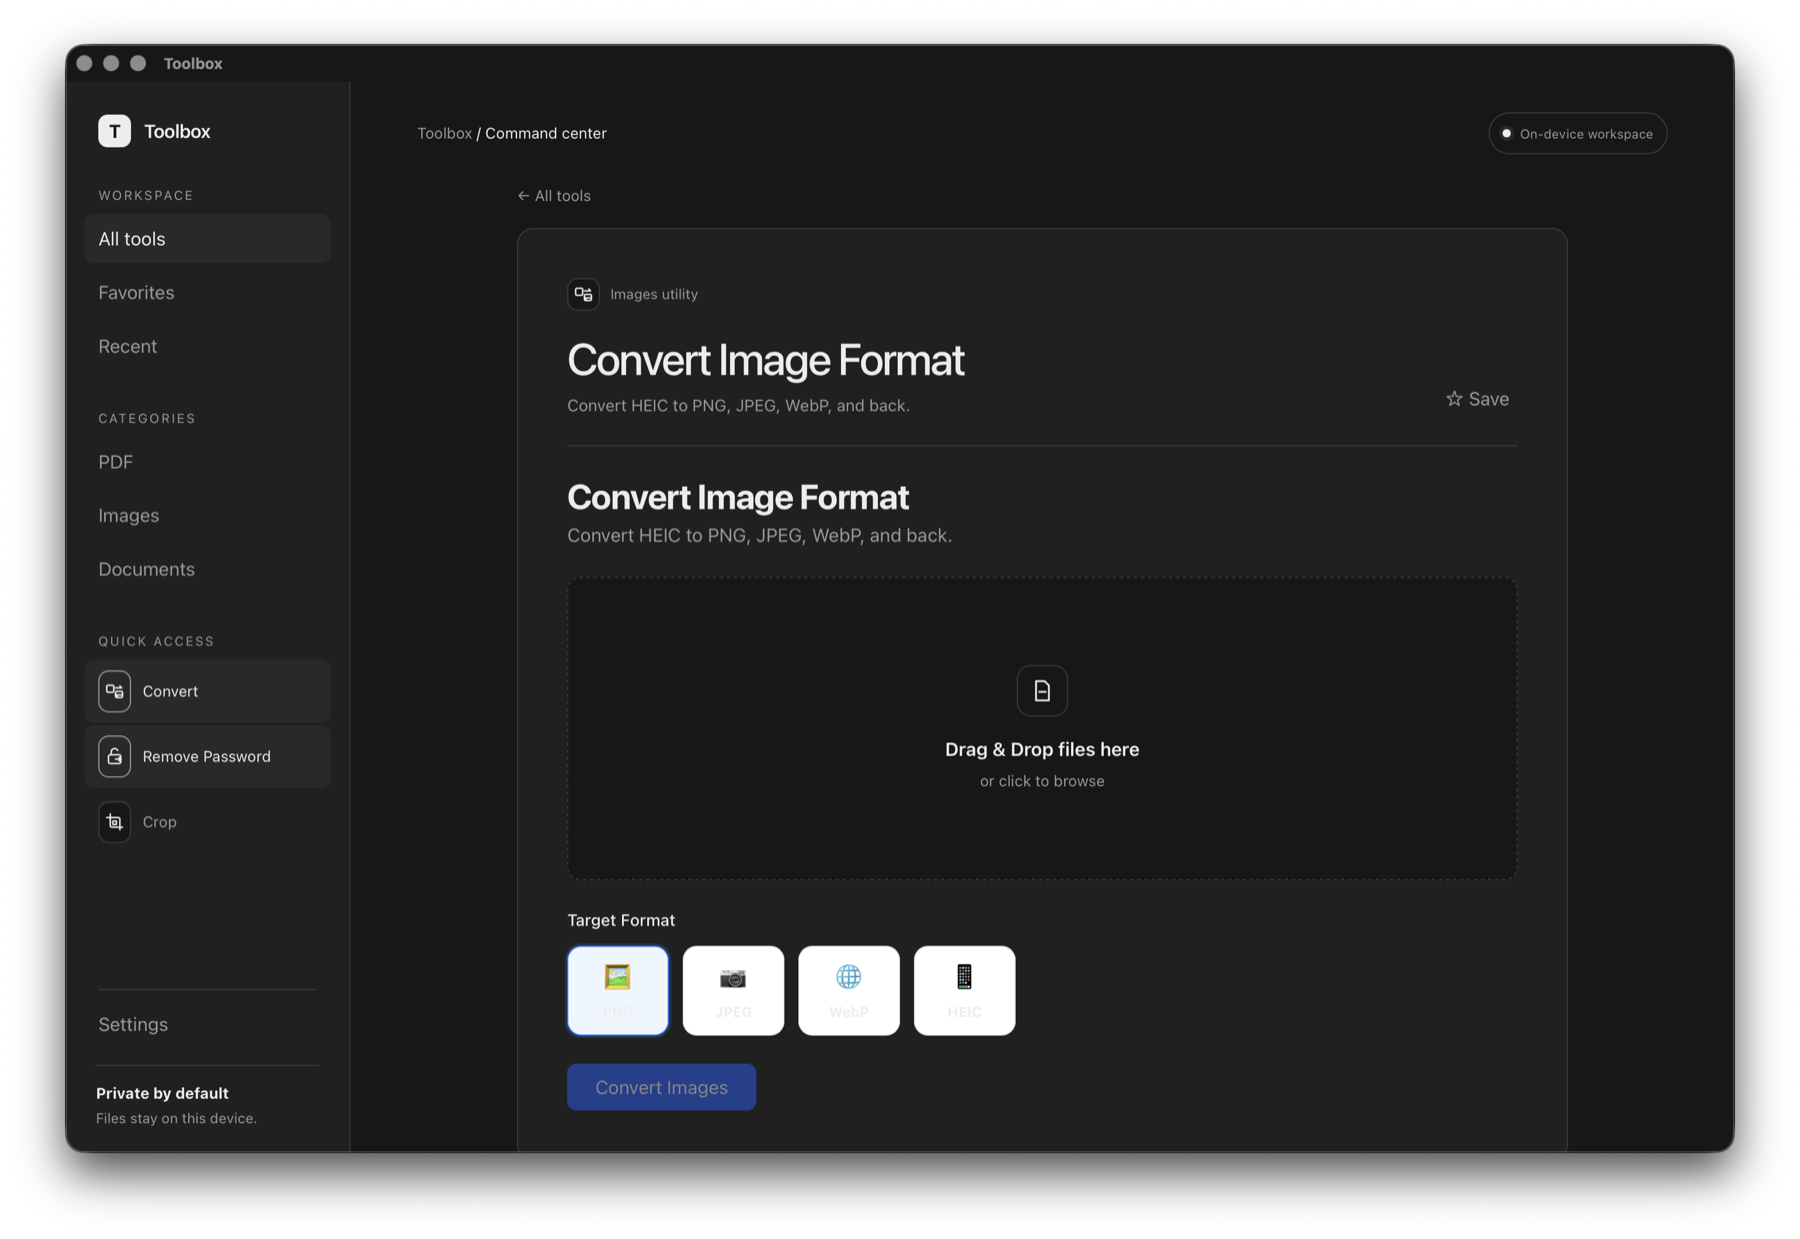
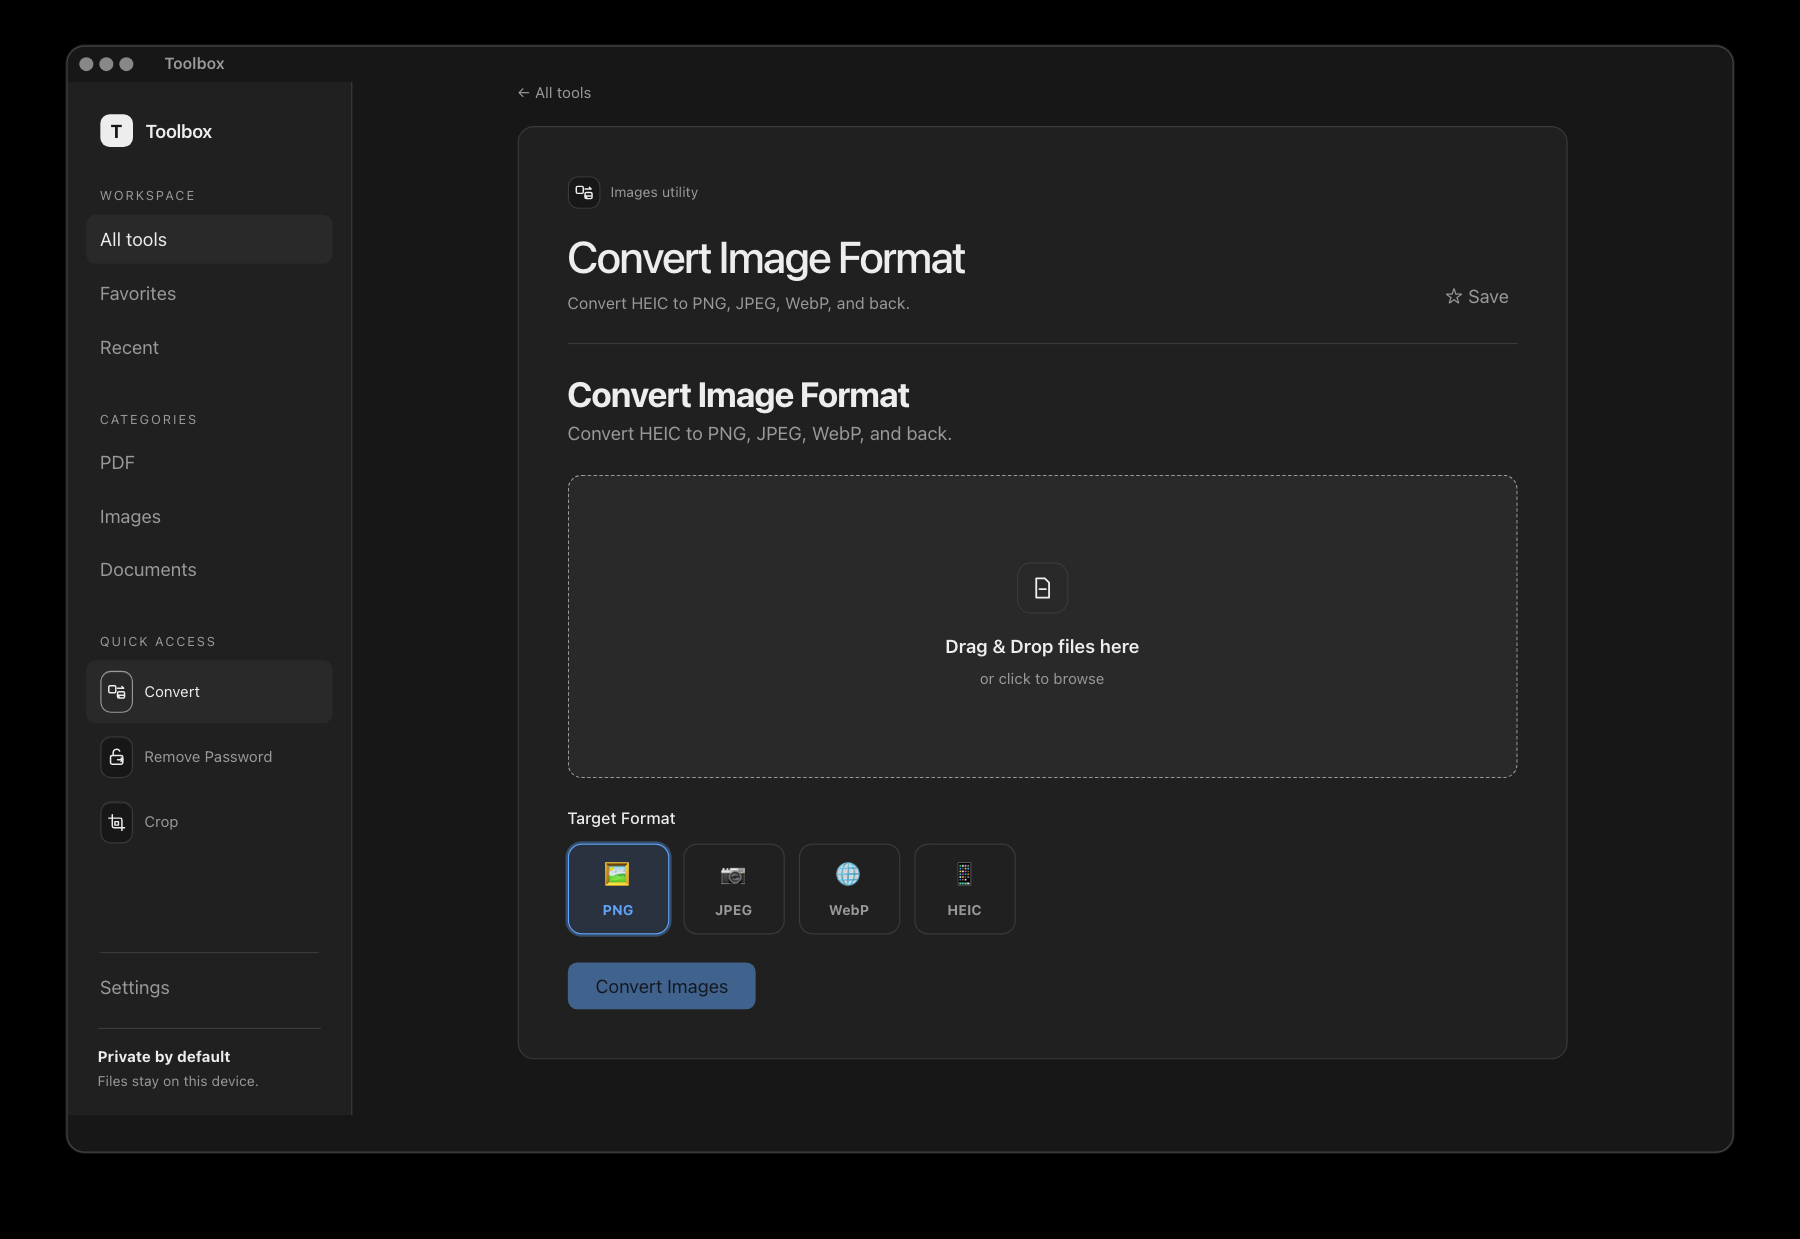
fix: sync app themes and docs screenshots

diff --git a/ToolboxTauri/src/index.css b/ToolboxTauri/src/index.css
@@ -10,8 +10,45 @@
   --accent: #ededed;
   --ink: #171717;
   --danger: #f87171;
+  --danger-ink: #1f0907;
+  --danger-bg: rgb(248 113 113 / 14%);
+  --warning: #fbbf24;
+  --warning-bg: rgb(251 191 36 / 14%);
+  --success: #4ade80;
+  --success-ink: #052e16;
+  --success-bg: rgb(34 197 94 / 14%);
+  --action: #60a5fa;
+  --action-hover: #93c5fd;
+  --action-ink: #0b1220;
+  --action-bg: rgb(96 165 250 / 14%);
+  --selection-overlay: rgb(96 165 250 / 24%);
+  --focus-ring: rgb(96 165 250 / 35%);
 }
-body[data-theme="light"] { color-scheme: light; --bg:#f7f7f5; --surface:#fff; --surface-2:#ededeb; --fg:#1d1d1b; --muted:#686865; --border:#d8d8d3; --accent:#1d1d1b; --ink:#f7f7f5; --danger:#b42318; }
+body[data-theme="light"] {
+  color-scheme: light;
+  --bg: #f7f7f5;
+  --surface: #fff;
+  --surface-2: #ededeb;
+  --fg: #1d1d1b;
+  --muted: #686865;
+  --border: #d8d8d3;
+  --accent: #1d1d1b;
+  --ink: #f7f7f5;
+  --danger: #b42318;
+  --danger-ink: #fff;
+  --danger-bg: rgb(180 35 24 / 10%);
+  --warning: #a16207;
+  --warning-bg: rgb(161 98 7 / 10%);
+  --success: #15803d;
+  --success-ink: #fff;
+  --success-bg: rgb(21 128 61 / 10%);
+  --action: #2563eb;
+  --action-hover: #1d4ed8;
+  --action-ink: #fff;
+  --action-bg: rgb(37 99 235 / 9%);
+  --selection-overlay: rgb(37 99 235 / 18%);
+  --focus-ring: rgb(37 99 235 / 24%);
+}
 * {
   box-sizing: border-box;
 }
@@ -509,10 +546,10 @@ select:focus-visible {
   padding-top: 28px;
 }
 .tool-view .text-slate-900,
-.tool-view .text-slate-700,
-.tool-view .text-slate-600 {
+.tool-view .text-slate-700 {
   color: var(--fg);
 }
+.tool-view .text-slate-600,
 .tool-view .text-slate-500,
 .tool-view .text-slate-400 {
   color: var(--muted);
@@ -680,11 +717,11 @@ select:focus-visible {
   font-weight: 600;
 }
 .result-status-success {
-  background: rgba(34, 197, 94, 0.14);
-  color: #4ade80;
+  background: var(--success-bg);
+  color: var(--success);
 }
 .result-status-failure {
-  background: rgba(248, 113, 113, 0.14);
+  background: var(--danger-bg);
   color: var(--danger);
 }
 .result-outputs {
@@ -802,6 +839,132 @@ select:focus-visible {
   overflow-y: auto;
   opacity: 0;
   pointer-events: none;
+}
+.tool-view input,
+.tool-view select,
+.tool-view textarea {
+  color-scheme: inherit;
+}
+.tool-view input:not([type="checkbox"]):not([type="range"]),
+.tool-view select,
+.tool-view textarea {
+  min-height: 36px;
+  border: 1px solid var(--border);
+  border-radius: 8px;
+  background: var(--surface);
+  color: var(--fg);
+}
+.tool-view input:not([type="checkbox"]):not([type="range"]),
+.tool-view select,
+.tool-view textarea {
+  padding: 7px 10px;
+}
+.tool-view input::placeholder,
+.tool-view textarea::placeholder {
+  color: var(--muted);
+}
+.tool-view input[type="range"] {
+  accent-color: var(--action);
+  background: var(--surface-2);
+}
+.tool-view input[type="checkbox"] {
+  accent-color: var(--action);
+}
+.tool-view option {
+  background: var(--surface);
+  color: var(--fg);
+}
+.tool-view .text-white {
+  color: var(--action-ink);
+}
+.tool-view .text-blue-600,
+.tool-view .text-blue-700 {
+  color: var(--action);
+}
+.tool-view .text-red-600,
+.tool-view .text-red-800 {
+  color: var(--danger);
+}
+.tool-view .text-amber-800 {
+  color: var(--warning);
+}
+.tool-view .bg-white {
+  background: var(--surface);
+}
+.tool-view .bg-slate-50,
+.tool-view .bg-slate-100,
+.tool-view .bg-slate-200 {
+  background: var(--surface-2);
+}
+.tool-view .bg-blue-50 {
+  background: var(--action-bg);
+}
+.tool-view .bg-blue-200\/30 {
+  background: var(--selection-overlay);
+}
+.tool-view .bg-red-50 {
+  background: var(--danger-bg);
+}
+.tool-view .bg-amber-50 {
+  background: var(--warning-bg);
+}
+.tool-view .bg-blue-600 {
+  background: var(--action);
+  color: var(--action-ink);
+  border-color: transparent;
+}
+.tool-view .bg-red-600 {
+  background: var(--danger);
+  color: var(--danger-ink);
+  border-color: transparent;
+}
+.tool-view .bg-green-600 {
+  background: var(--success);
+  color: var(--success-ink);
+  border-color: transparent;
+}
+.tool-view .bg-blue-600:hover:not(:disabled) {
+  background: var(--action-hover);
+}
+.tool-view .bg-red-600:hover:not(:disabled) {
+  background: color-mix(in srgb, var(--danger) 88%, var(--fg));
+}
+.tool-view .bg-green-600:hover:not(:disabled) {
+  background: color-mix(in srgb, var(--success) 88%, var(--fg));
+}
+.tool-view .border,
+.tool-view .border-slate-200,
+.tool-view .border-slate-300 {
+  border-color: var(--border);
+}
+.tool-view .border-blue-500,
+.tool-view .border-blue-600 {
+  border-color: var(--action);
+}
+.tool-view .border-red-600 {
+  border-color: var(--danger);
+}
+.tool-view .border-amber-200 {
+  border-color: color-mix(in srgb, var(--warning) 45%, var(--border));
+}
+.tool-view .hover\:border-slate-300:hover {
+  border-color: var(--muted);
+}
+.tool-view .ring-blue-200,
+.tool-view .ring-blue-500\/20 {
+  --tw-ring-color: var(--focus-ring);
+}
+.tool-view .accent-blue-600 {
+  accent-color: var(--action);
+}
+.tool-view pre {
+  margin: 0;
+  padding: 12px;
+  overflow: auto;
+  border: 1px solid var(--border);
+  border-radius: 8px;
+  background: var(--bg);
+  color: var(--fg);
 }
 .settings-overlay { position:fixed; inset:0; z-index:20; display:flex; align-items:flex-start; justify-content:center; padding:32px; background:rgba(0,0,0,.52); }
 .settings-dialog { width:min(520px,100%); max-height:calc(100vh - 64px); overflow:auto; padding:26px; border:1px solid var(--border); border-radius:14px; background:var(--surface); color:var(--fg); box-shadow:0 24px 80px rgba(0,0,0,.3); }

diff --git a/docs/index.html b/docs/index.html
@@ -184,19 +184,19 @@
       </div>
       <div class="screenshot-grid">
         <figure class="screenshot-card">
-          <div class="screenshot-frame"><img src="assets/screenshot-command-center.png" alt="Toolbox home workspace showing the command center and tool library" loading="lazy"></div>
+          <div class="screenshot-frame"><img src="assets/screenshot-command-center.png" data-theme-src-dark="assets/screenshot-command-center.png" data-theme-src-light="assets/screenshot-command-center-light.png" alt="Toolbox home workspace showing the command center and tool library" loading="lazy"></div>
           <figcaption><strong>Home workspace</strong><span>Browse local file utilities from one focused command center.</span></figcaption>
         </figure>
         <figure class="screenshot-card">
-          <div class="screenshot-frame"><img src="assets/screenshot-remove-password.png" alt="Toolbox Remove Password screen with a document drop area and password field" loading="lazy"></div>
+          <div class="screenshot-frame"><img src="assets/screenshot-remove-password.png" data-theme-src-dark="assets/screenshot-remove-password.png" data-theme-src-light="assets/screenshot-remove-password-light.png" alt="Toolbox Remove Password screen with a document drop area and password field" loading="lazy"></div>
           <figcaption><strong>Remove Password</strong><span>Unlock a PDF or Office file locally, then save a copy beside the original.</span></figcaption>
         </figure>
         <figure class="screenshot-card">
-          <div class="screenshot-frame"><img src="assets/screenshot-convert-image-format.png" alt="Toolbox Convert Image Format screen with PNG, JPEG, WebP, and HEIC choices" loading="lazy"></div>
+          <div class="screenshot-frame"><img src="assets/screenshot-convert-image-format.png" data-theme-src-dark="assets/screenshot-convert-image-format.png" data-theme-src-light="assets/screenshot-convert-image-format-light.png" alt="Toolbox Convert Image Format screen with PNG, JPEG, WebP, and HEIC choices" loading="lazy"></div>
           <figcaption><strong>Convert Image Format</strong><span>Choose a target format in a focused image workflow.</span></figcaption>
         </figure>
         <figure class="screenshot-card">
-          <div class="screenshot-frame"><img src="assets/screenshot-settings.png" alt="Toolbox settings panel showing theme controls, version 0.2.0, and support QR code" loading="lazy"></div>
+          <div class="screenshot-frame"><img src="assets/screenshot-settings.png" data-theme-src-dark="assets/screenshot-settings.png" data-theme-src-light="assets/screenshot-settings-light.png" alt="Toolbox settings panel showing theme controls, version 0.2.0, and support QR code" loading="lazy"></div>
           <figcaption><strong>Settings</strong><span>Switch themes, confirm the installed version, and support development.</span></figcaption>
         </figure>
       </div>

diff --git a/docs/assets/styles.css b/docs/assets/styles.css
@@ -472,8 +472,8 @@ details .accordion-content p { font-size: .875rem; color: var(--muted-foreground
   overflow: hidden;
   border: 1px solid var(--border-strong);
   border-radius: 1.25rem;
-  background: #090b10;
-  box-shadow: 0 26px 65px rgb(0 0 0 / 28%), 0 0 0 1px rgb(255 255 255 / 4%);
+  background: var(--card);
+  box-shadow: var(--shadow-lg), 0 0 0 1px color-mix(in srgb, var(--foreground) 4%, transparent);
 }
 .screenshot-frame img { display: block; width: 100%; height: auto; }
 .screenshot-card figcaption { display: grid; gap: .25rem; margin-top: 1rem; font-size: .8125rem; }

diff --git a/docs/assets/app.js b/docs/assets/app.js
@@ -19,6 +19,10 @@
       'content',
       theme === 'dark' ? '#0a0a0a' : '#ffffff'
     );
+    for (const image of $$('[data-theme-src-dark][data-theme-src-light]')) {
+      const source = image.dataset[`themeSrc${theme[0].toUpperCase()}${theme.slice(1)}`];
+      if (source && image.getAttribute('src') !== source) image.setAttribute('src', source);
+    }
   };
 
   const forced = new URLSearchParams(location.search).get('theme');
